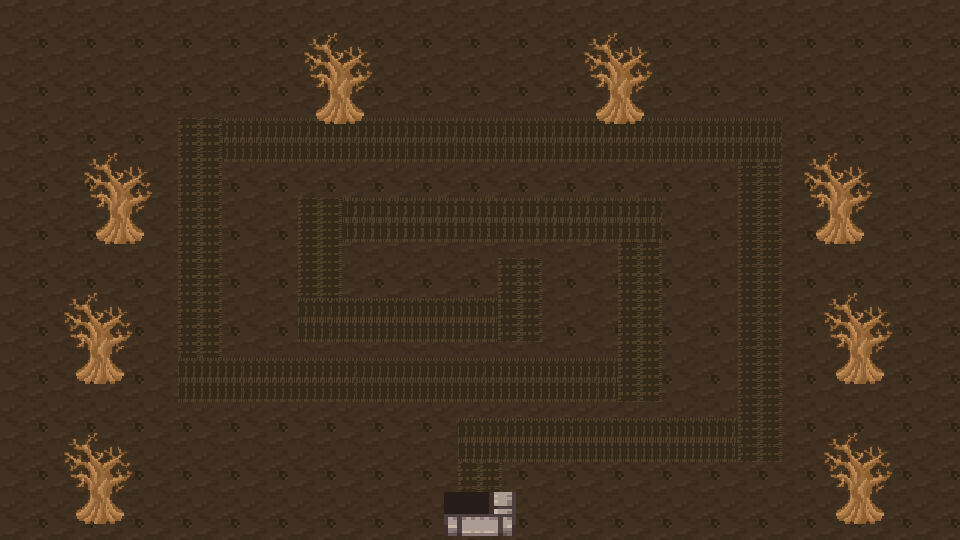
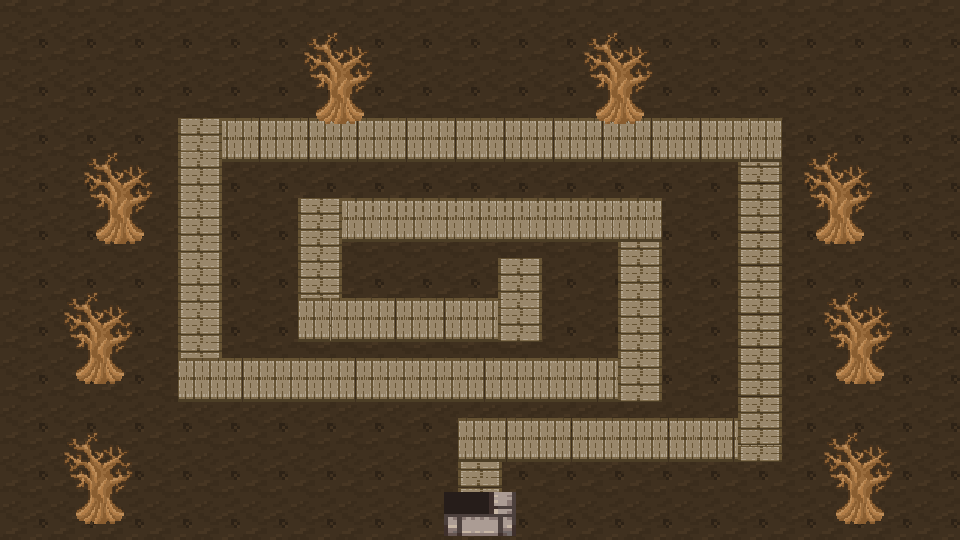
fix(game-cartridges): bog contrast and astral arena (track_id: apk_standard_play_maps_20260910)

Changed region(s): [[0.1875, 0.2074, 0.8125, 0.9185]]

diff --git a/packages/game-cartridges/src/maps/astral-mage-map.ts b/packages/game-cartridges/src/maps/astral-mage-map.ts
@@ -104,7 +104,7 @@ export const ASTRAL_MAGE_MAP: AstralMageMap = Object.freeze({
   enemySpawns: Object.freeze([point(360, 90), point(600, 90)]),
   clearings: CRYSTAL_CLEARINGS,
   paths: Object.freeze([
-    Object.freeze({ id: "spine", width: 38, points: Object.freeze([point(480, 474), point(480, 420), point(480, 180), point(480, 130)]) }),
+    Object.freeze({ id: "spine", width: 38, points: Object.freeze([point(480, 474), point(480, 420), point(480, 180), point(480, 130), point(480, 36)]) }),
     Object.freeze({ id: "crystal-northwest", width: 32, points: Object.freeze([point(480, 180), point(300, 180), point(210, 130)]) }),
     Object.freeze({ id: "crystal-northeast", width: 32, points: Object.freeze([point(480, 180), point(660, 180), point(750, 130)]) }),
     Object.freeze({ id: "crystal-west", width: 32, points: Object.freeze([point(480, 360), point(300, 360), point(170, 300)]) }),
@@ -125,6 +125,12 @@ export const ASTRAL_MAGE_MAP: AstralMageMap = Object.freeze({
     feature("ruin-northeast", "ruins", "prop:ruins", 850, 170, 64, 64, 12, FEATURE_SOLIDS[3]),
     feature("ruin-southwest", "ruins", "prop:ruins", 110, 370, 64, 64, 12, FEATURE_SOLIDS[4]),
     feature("ruin-southeast", "ruins", "prop:ruins", 850, 370, 64, 64, 12, FEATURE_SOLIDS[5]),
+    feature("arena-wall-north", "wall", "prop:mausoleum", 480, 12, 936, 24, 9, undefined, undefined, "x"),
+    feature("arena-wall-south", "wall", "prop:mausoleum", 480, 528, 936, 24, 9, undefined, undefined, "x"),
+    feature("arena-wall-west", "wall", "prop:mausoleum", 12, 270, 516, 24, 9, undefined, 90, "x"),
+    feature("arena-wall-east", "wall", "prop:mausoleum", 948, 270, 516, 24, 9, undefined, 90, "x"),
+    feature("spawn-gate-northwest", "gate", "prop:gate", 360, 90, 40, 40, 13),
+    feature("spawn-gate-northeast", "gate", "prop:gate", 600, 90, 40, 40, 13),
     ...CRYSTAL_NODES,
   ]),
   solids: Object.freeze([...BORDER_SOLIDS, ...FEATURE_SOLIDS]),

diff --git a/packages/game-cartridges/src/maps/astral-mage-map.test.ts b/packages/game-cartridges/src/maps/astral-mage-map.test.ts
@@ -59,8 +59,10 @@ describe("Astral Mage map", () => {
   it("provides at least two distinct landmark kinds", () => {
     const kinds = [...new Set(ASTRAL_MAGE_MAP.decor.map((item) => item.kind))];
     expect(kinds.length).toBeGreaterThanOrEqual(2);
-    expect(kinds).toEqual(expect.arrayContaining(["mausoleum", "ruins", "crystal"]));
+    expect(kinds).toEqual(expect.arrayContaining(["mausoleum", "ruins", "crystal", "wall", "gate"]));
     expect(ASTRAL_MAGE_MAP.terrain[0]?.assetKey).toBe("dungeon:stone-alt");
     expect(ASTRAL_MAGE_MAP.terrain[1]?.assetKey).toBe("path:sand");
+    expect(ASTRAL_MAGE_MAP.decor.filter((item) => item.kind === "wall")).toHaveLength(4);
+    expect(ASTRAL_MAGE_MAP.decor.filter((item) => item.kind === "gate")).toHaveLength(2);
   });
 });

diff --git a/packages/game-cartridges/src/maps/devourer-slime-map.test.ts b/packages/game-cartridges/src/maps/devourer-slime-map.test.ts
@@ -62,7 +62,7 @@ describe("Devourer Slime map", () => {
     expect(kinds).toEqual(expect.arrayContaining(["dead-tree", "dirt-patch", "gate", "path"]));
     expect(DEVOURER_SLIME_MAP.decor.filter((item) => item.kind === "dirt-patch")).toHaveLength(15);
     expect(DEVOURER_SLIME_MAP.decor.some((item) => item.assetKey === "prop:fence")).toBe(false);
-    expect(DEVOURER_SLIME_MAP.terrain[1]?.assetKey).toBe("path:mud");
-    expect(DEVOURER_SLIME_MAP.decor.filter((item) => item.kind === "path").every((item) => item.assetKey === "path:mud")).toBe(true);
+    expect(DEVOURER_SLIME_MAP.terrain[1]?.assetKey).toBe("path:crypt");
+    expect(DEVOURER_SLIME_MAP.decor.filter((item) => item.kind === "path").every((item) => item.assetKey === "path:crypt")).toBe(true);
   });
 });

diff --git a/packages/game-cartridges/src/maps/devourer-slime-map.ts b/packages/game-cartridges/src/maps/devourer-slime-map.ts
@@ -113,7 +113,7 @@ const coilStamp = (
   return feature(
     id,
     "path",
-    "path:mud",
+    "path:crypt",
     (start.x + end.x) / 2,
     (start.y + end.y) / 2,
     horizontal ? length + 44 : 44,
@@ -149,7 +149,7 @@ export const DEVOURER_SLIME_MAP: DevourerSlimeMap = Object.freeze({
   ]),
   terrain: Object.freeze([
     Object.freeze({ id: "bog-grass", assetKey: "world:ground", depth: -40 }),
-    Object.freeze({ id: "bog-mud", assetKey: "path:mud", depth: -30 }),
+    Object.freeze({ id: "bog-trail", assetKey: "path:crypt", depth: -30 }),
   ]),
   decor: Object.freeze([
     ...DIRT_PATCH_CENTERS.map((center, index) => dirtPatch(index, center.x, center.y)),
